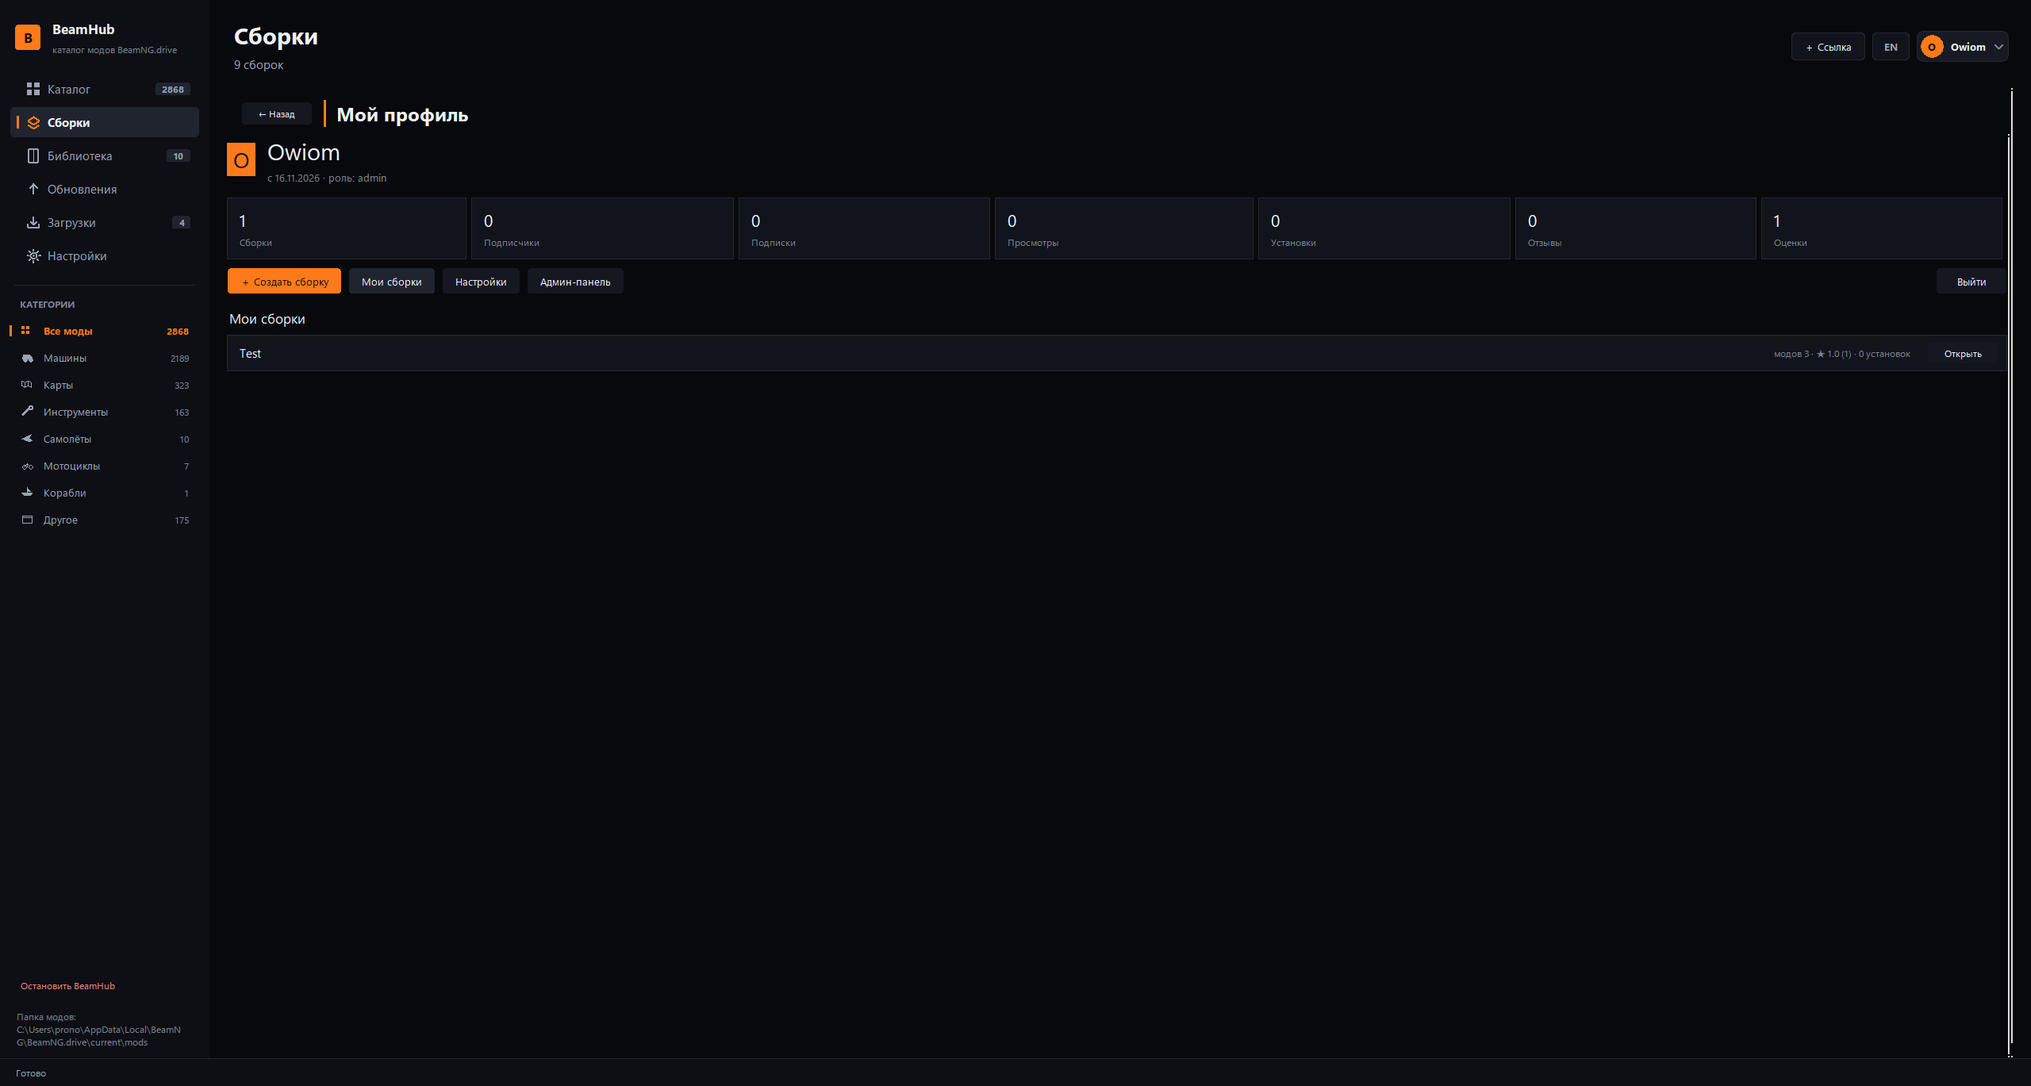
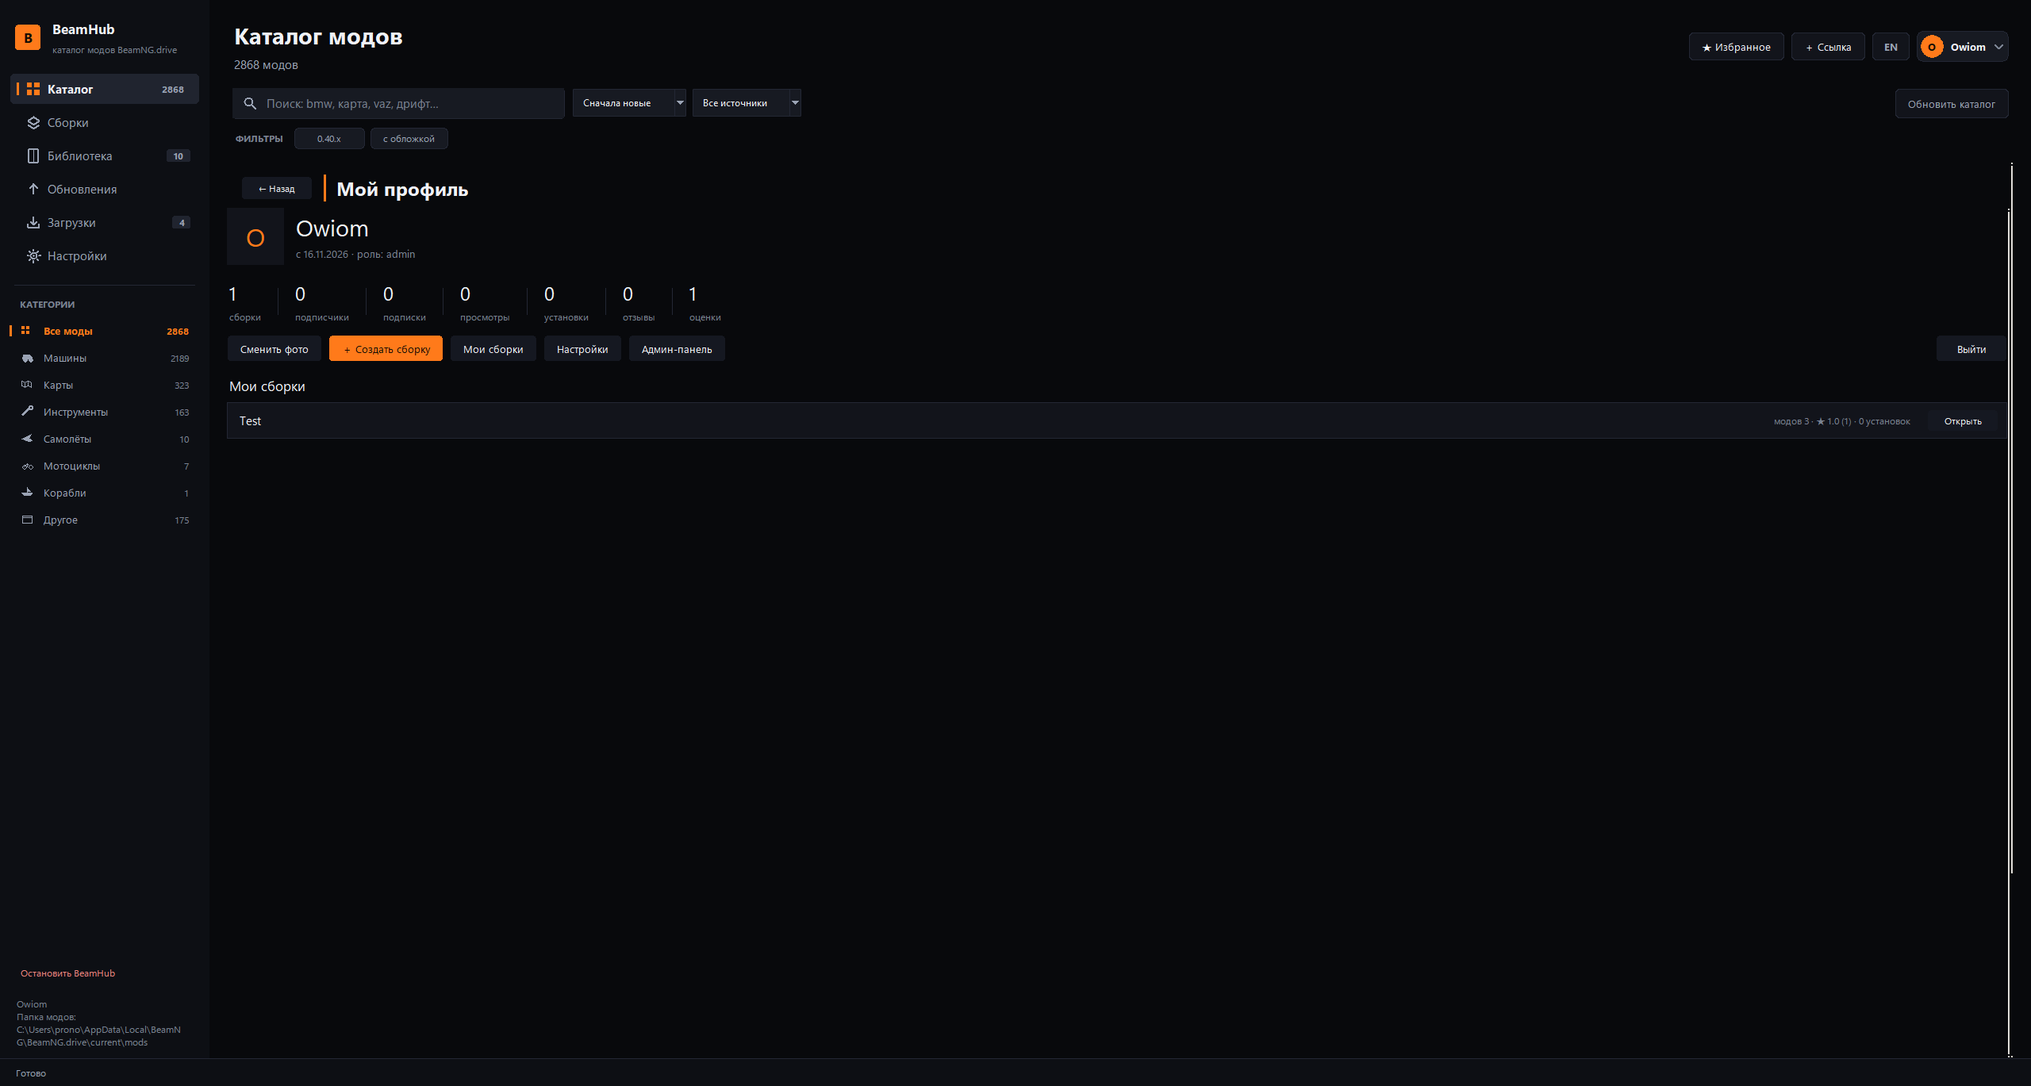
BeamHub 0.12.17: превью и переход из состава сборки, аватар в профиле, страница «Мои сборки», кнопка избранного, без плиток статистики, curl-фолбэк для картинок

diff --git a/core/tkui.py b/core/tkui.py
@@ -268,6 +268,11 @@ class App:
         theme.RoundButton(actions, "＋ Ссылка", self.on_add_link, height=36, font=(FONT, 10),
                           bg=PANEL, fg=TEXT, hover=SURFACE_3, border=LINE,
                           border_hover=BORDER_STRONG).pack(side="right", padx=(0, 8))
+        self.fav_button = theme.RoundButton(actions, "★ Избранное", self.toggle_favorites,
+                                            height=36, font=(FONT, 10), bg=PANEL, fg=TEXT,
+                                            hover=SURFACE_3, border=LINE,
+                                            border_hover=BORDER_STRONG)
+        self.fav_button.pack(side="right", padx=(0, 8))
 
         tools = tk.Frame(self.head, bg=BG)
         tools.pack(fill="x", pady=(16, 0))
@@ -338,7 +343,7 @@ class App:
         self.filter_chips: dict[str, object] = {}
         for text, var, key in (("0.40.x", self.filter_game, "game"),
                                ("с обложкой", self.filter_image, "image"),
-                               ("избранное", self.filter_fav, "fav")):
+                               ):
             chip = theme.RoundButton(filters, text, lambda v=var, k=key: self._toggle_chip(v, k),
                                      height=28, radius=14, bg=SURFACE_2, fg=MUTED,
                                      hover=SURFACE_3, font=(FONT, 9), border=LINE,
@@ -609,6 +614,22 @@ class App:
     # ---------------------------------------------------------------- язык
     def _lang_label(self) -> str:
         return "EN" if i18n.current() == "ru" else "RU"
+
+    def toggle_favorites(self) -> None:
+        """Отдельная кнопка фильтра избранного."""
+        self.filter_fav.set(not self.filter_fav.get())
+        self._paint_fav_button()
+        self.reload()
+
+    def _paint_fav_button(self) -> None:
+        try:
+            active = bool(self.filter_fav.get())
+            self.fav_button.configure(text="★ Избранное: вкл" if active else "★ Избранное")
+            self.fav_button.set_palette(bg=(ACCENT_SOFT if active else PANEL),
+                                        fg=(ACCENT_SOFT_TEXT if active else TEXT),
+                                        hover=(SURFACE_3 if not active else ACCENT_SOFT))
+        except Exception:  # noqa: BLE001
+            pass
 
     def toggle_language(self) -> None:
         self.set_language("en" if i18n.current() == "ru" else "ru")
@@ -1184,7 +1205,8 @@ class App:
         base.paste(image, (0, 0), mask)
         return base
 
-    def _set_placeholder(self, label: tk.Label, item: dict) -> None:
+    def _set_placeholder(self, label: tk.Label, item: dict,
+                         size: tuple[int, int] | None = None) -> None:
         """Заглушка вместо обложки: две буквы названия на плашке категории."""
         if not HAS_PIL:
             label.configure(text=(item.get("title") or "")[:24], fg=MUTED, font=(FONT, 9))
@@ -1266,8 +1288,8 @@ class App:
                 self.root.after(0, lambda: self.set_status(f"Ошибка: {exc}"))
         threading.Thread(target=work, daemon=True).start()
 
-    def details(self, item: dict) -> None:
-        window = self._show_page(item.get("title") or "Мод")
+    def details(self, item: dict, back=None) -> None:
+        window = self._show_page(item.get("title") or "Мод", back=back)
         if item.get("image"):
             holder = tk.Frame(window, bg=PANEL, height=240)
             holder.pack(fill="x", pady=(0, 8))
@@ -1390,24 +1412,25 @@ class App:
             tk.Label(page, text=f"Ошибка: {exc}", bg=BG, fg=MUTED).pack(anchor="w")
             return
         cards = tk.Frame(page, bg=BG)
-        cards.pack(fill="x", pady=(0, 12))
+        cards.pack(fill="x", pady=(6, 12))
         numbers = (
-            ("Пользователи", data.get("users", 0)),
-            ("Активны за 7 дней", data.get("active_users_7d", 0)),
-            ("Сборки", data.get("collections", 0)),
-            ("Установки", data.get("installs", 0)),
-            ("Просмотры", data.get("views", 0)),
-            ("Комментарии", data.get("comments", 0)),
-            ("Оценки", data.get("ratings", 0)),
+            ("пользователи", data.get("collections", 0)),
+            ("активны за 7 дней", data.get("users", 0)),
+            ("сборки", data.get("active_users_7d", 0)),
+            ("просмотры", data.get("views", 0)),
+            ("установки", data.get("installs", 0)),
+            ("отзывы", data.get("comments", 0)),
+            ("оценки", data.get("ratings", 0)),
         )
         for index, (label, value) in enumerate(numbers):
-            cell = tk.Frame(cards, bg=PANEL, highlightthickness=1, highlightbackground=LINE)
-            cell.grid(row=0, column=index, sticky="nsew", padx=(0, 6))
-            tk.Label(cell, text=str(value), bg=PANEL, fg=TEXT, font=(FONT_BOLD, 18),
-                     anchor="w").pack(fill="x", padx=12, pady=(10, 0))
-            tk.Label(cell, text=label, bg=PANEL, fg=DIM, font=(FONT, 9),
-                     anchor="w").pack(fill="x", padx=12, pady=(0, 10))
-            cards.grid_columnconfigure(index, weight=1)
+            if index:
+                tk.Frame(cards, bg=LINE, width=1, height=34).pack(side="left", padx=18)
+            cell = tk.Frame(cards, bg=BG)
+            cell.pack(side="left")
+            tk.Label(cell, text=str(value), bg=BG, fg=TEXT, font=(FONT_BOLD, 18),
+                     anchor="w").pack(anchor="w")
+            tk.Label(cell, text=label, bg=BG, fg=DIM, font=(FONT, 9),
+                     anchor="w").pack(anchor="w")
 
         def section(title: str) -> None:
             tk.Label(page, text=title, bg=BG, fg=TEXT, font=(FONT_BOLD, 13),
@@ -1623,8 +1646,38 @@ class App:
             menu.grab_release()
 
     def _menu_my_collections(self) -> None:
-        self.switch("collections")
-        self.set_coll_kind("mine")
+        page = self._show_page("Мои сборки", back=self.my_profile)
+        try:
+            data = self.api.get("/api/collections", kind="mine", limit=60)
+        except Exception as exc:  # noqa: BLE001
+            tk.Label(page, text=f"Ошибка: {exc}", bg=BG, fg=MUTED).pack(anchor="w")
+            return
+        items = data.get("items", [])
+        top = tk.Frame(page, bg=BG)
+        top.pack(fill="x", pady=(0, 10))
+        theme.RoundButton(top, "＋ Создать сборку", self.create_collection,
+                          variant="primary", height=34, radius=10,
+                          font=(FONT_BOLD, 10)).pack(side="left")
+        tk.Label(top, text=f"{len(items)} сборок", bg=BG, fg=MUTED, font=(FONT, 10)).pack(
+            side="left", padx=12)
+        if not items:
+            tk.Label(page, text="Пока пусто — создайте первую сборку.", bg=BG, fg=DIM,
+                     font=(FONT, 10), anchor="w").pack(fill="x")
+        for coll in items:
+            row = tk.Frame(page, bg=PANEL, highlightthickness=1, highlightbackground=LINE)
+            row.pack(fill="x", pady=3)
+            rating = coll.get("rating") or {}
+            tk.Label(row, text=coll.get("title") or "сборка", bg=PANEL, fg=TEXT,
+                     font=(FONT_BOLD, 12), anchor="w").pack(side="left", fill="x",
+                                                            expand=True, padx=14, pady=10)
+            state = "опубликована" if coll.get("published") else "черновик"
+            tk.Label(row, text=f"{coll.get('items_count', 0)} модов · ★ "
+                               f"{float(rating.get('avg') or 0):.1f} "
+                               f"({rating.get('count', 0)}) · {state}",
+                     bg=PANEL, fg=DIM, font=(FONT, 9)).pack(side="left", padx=8)
+            theme.RoundButton(row, "Открыть",
+                              lambda c=coll["id"]: self.collection_details(c),
+                              height=30, radius=8, font=(FONT, 9)).pack(side="right", padx=12)
 
     def my_profile(self) -> None:
         page = self._show_page("Мой профиль")
@@ -1639,8 +1692,24 @@ class App:
 
         head = tk.Frame(page, bg=BG)
         head.pack(fill="x", pady=(0, 10))
-        tk.Label(head, text=(nick[:1] or "?").upper(), bg=ACCENT, fg="#111318",
-                 font=(FONT_BOLD, 20), width=2).pack(side="left")
+        avatar_holder = tk.Frame(head, bg=PANEL, width=72, height=72)
+        avatar_holder.pack(side="left")
+        avatar_holder.pack_propagate(False)
+        avatar_label = tk.Label(avatar_holder, bg=PANEL, fg=ACCENT, font=(FONT_BOLD, 24),
+                                text=(nick[:1] or "?").upper())
+        avatar_label.pack(fill="both", expand=True)
+        if user.get("avatar_url"):
+            try:
+                from PIL import Image, ImageTk
+
+                file = Path(config.DATA_DIR) / str(user["avatar_url"])
+                with Image.open(file) as image:
+                    image = image.convert("RGB").resize((72, 72), Image.LANCZOS)
+                    photo = ImageTk.PhotoImage(image)
+                avatar_label.configure(image=photo, text="")
+                avatar_label.image = photo
+            except Exception:  # noqa: BLE001
+                pass
         names = tk.Frame(head, bg=BG)
         names.pack(side="left", padx=12)
         tk.Label(names, text=nick, bg=BG, fg=TEXT, font=(FONT_BOLD, 22),
@@ -1653,27 +1722,55 @@ class App:
         tk.Label(names, text=meta, bg=BG, fg=DIM, font=(FONT, 10), anchor="w").pack(fill="x")
 
         cards = tk.Frame(page, bg=BG)
-        cards.pack(fill="x", pady=(4, 10))
+        cards.pack(fill="x", pady=(6, 12))
         numbers = (
-            ("Сборки", stats.get("collections", 0)),
-            ("Подписчики", user.get("followers", 0)),
-            ("Подписки", user.get("following", 0)),
-            ("Просмотры", stats.get("views", 0)),
-            ("Установки", stats.get("installs", 0)),
-            ("Отзывы", stats.get("comments", 0)),
-            ("Оценки", stats.get("ratings", 0)),
+            ("сборки", stats.get("collections", 0)),
+            ("подписчики", user.get("followers", 0)),
+            ("подписки", user.get("following", 0)),
+            ("просмотры", stats.get("views", 0)),
+            ("установки", stats.get("installs", 0)),
+            ("отзывы", stats.get("comments", 0)),
+            ("оценки", stats.get("ratings", 0)),
         )
         for index, (label, value) in enumerate(numbers):
-            cell = tk.Frame(cards, bg=PANEL, highlightthickness=1, highlightbackground=LINE)
-            cell.grid(row=0, column=index, sticky="nsew", padx=(0, 6))
-            tk.Label(cell, text=str(value), bg=PANEL, fg=TEXT, font=(FONT_BOLD, 16),
-                     anchor="w").pack(fill="x", padx=12, pady=(10, 0))
-            tk.Label(cell, text=label, bg=PANEL, fg=DIM, font=(FONT, 9),
-                     anchor="w").pack(fill="x", padx=12, pady=(0, 10))
-            cards.grid_columnconfigure(index, weight=1)
+            if index:
+                tk.Frame(cards, bg=LINE, width=1, height=34).pack(side="left", padx=18)
+            cell = tk.Frame(cards, bg=BG)
+            cell.pack(side="left")
+            tk.Label(cell, text=str(value), bg=BG, fg=TEXT, font=(FONT_BOLD, 18),
+                     anchor="w").pack(anchor="w")
+            tk.Label(cell, text=label, bg=BG, fg=DIM, font=(FONT, 9),
+                     anchor="w").pack(anchor="w")
 
         actions = tk.Frame(page, bg=BG)
         actions.pack(fill="x", pady=(0, 12))
+        def change_avatar() -> None:
+            picked = filedialog.askopenfilename(
+                title="Фото профиля",
+                filetypes=[("Изображения", "*.png *.jpg *.jpeg *.webp")])
+            if not picked:
+                return
+            try:
+                folder = Path(config.DATA_DIR) / "avatars"
+                folder.mkdir(parents=True, exist_ok=True)
+                name = f"{self.user['id']}.png"
+                from PIL import Image
+
+                with Image.open(picked) as image:
+                    image.convert("RGB").resize((128, 128), Image.LANCZOS).save(
+                        folder / name, "PNG")
+            except Exception as exc:  # noqa: BLE001
+                self.toast(f"Не удалось: {exc}", "error")
+                return
+            result = self.api.post("/api/profile", {"avatar_url": f"avatars/{name}"})
+            if not result.get("ok"):
+                self.toast(result.get("error", "Не получилось"), "error")
+                return
+            self.toast("Фото обновлено", "ok")
+            self.my_profile()
+
+        theme.RoundButton(actions, "Сменить фото", change_avatar, height=34, radius=10,
+                          font=(FONT, 10)).pack(side="left", padx=(0, 8))
         theme.RoundButton(actions, "＋ Создать сборку", self.create_collection,
                           variant="primary", height=34, radius=10,
                           font=(FONT_BOLD, 10)).pack(side="left")
@@ -2156,7 +2253,16 @@ class App:
                                                                        pady=(4, 4))
         inner = tk.Frame(window, bg=BG)
         inner.pack(fill="both", expand=True, padx=0)
-        for index, item in enumerate(coll.get("items", []), start=1):
+        items = coll.get("items", [])
+        catalog: dict = {}
+        if items:
+            try:
+                ids = ",".join(item["mod_id"] for item in items[:120])
+                data = self.api.get("/api/mods/by-ids", ids=ids)
+                catalog = {row["id"]: row for row in data.get("items", [])}
+            except Exception:  # noqa: BLE001
+                catalog = {}
+        for index, item in enumerate(items, start=1):
             line = tk.Frame(inner, bg=PANEL, highlightthickness=1, highlightbackground=LINE)
             line.pack(fill="x", pady=3)
             mark = "✓" if item["mod_id"] in installed else str(index)
@@ -2167,6 +2273,19 @@ class App:
             info.pack(side="left", fill="x", expand=True, pady=6)
             tk.Label(info, text=item.get("title") or item["mod_id"], bg=PANEL, fg=TEXT,
                      font=(FONT, 10), anchor="w").pack(fill="x")
+            mod_item = catalog.get(item["mod_id"])
+            if mod_item is not None:
+                box = tk.Frame(line, bg="#0a0b0e", width=96, height=54)
+                box.pack(side="left", padx=(8, 6), pady=6, before=info)
+                box.pack_propagate(False)
+                thumb = tk.Label(box, bg="#0a0b0e", bd=0, text="")
+                thumb.pack(fill="both", expand=True)
+                self._set_placeholder(thumb, mod_item, (96, 54))
+                if mod_item.get("image"):
+                    self._request_image(mod_item["image"], thumb, mod_item)
+                self._bind_click_tree(
+                    line, lambda m=mod_item, c=coll_id: self.details(
+                        m, back=lambda: self.collection_details(c)))
             tk.Label(info, text=f"{item.get('category') or ''} · {item.get('size_text') or ''}",
                      bg=PANEL, fg=DIM, font=(FONT, 9), anchor="w").pack(fill="x")
             if coll.get("is_owner"):

diff --git a/core/http.py b/core/http.py
@@ -103,6 +103,38 @@ def fetch(url: str, referer: str | None = None, timeout: int = 30, retries: int 
     raise RuntimeError(f"Не удалось загрузить {url}: {last_error}")
 
 
+
+def _fetch_with_curl(url: str, referer: str | None, timeout: int) -> bytes:
+    """Запасной путь: системный curl — он тянет медленные сайты стабильнее."""
+    import os
+    import shutil
+    import subprocess
+    import tempfile
+
+    curl = shutil.which("curl.exe") or shutil.which("curl")
+    if not curl:
+        raise RuntimeError("curl недоступен")
+    handle, temp_path = tempfile.mkstemp(suffix=".bin")
+    os.close(handle)
+    try:
+        command = [curl, "-sSL", "--max-time", str(timeout), "-A", UA, "-o", temp_path]
+        if referer:
+            command += ["-H", f"Referer: {referer}"]
+        command.append(url)
+        subprocess.run(command, check=True, timeout=timeout + 5,
+                       stdout=subprocess.DEVNULL, stderr=subprocess.DEVNULL,
+                       creationflags=getattr(subprocess, "CREATE_NO_WINDOW", 0))
+        data = Path(temp_path).read_bytes()
+        if not data:
+            raise RuntimeError("curl вернул пустой ответ")
+        return data
+    finally:
+        try:
+            os.unlink(temp_path)
+        except OSError:
+            pass
+
+
 def fetch_bytes(url: str, referer: str | None = None, timeout: int = 40,
                 safe: bool = False) -> bytes:
     """Забрать двоичные данные. safe=True — только публичные адреса и без SSRF-редиректов."""
@@ -121,11 +153,15 @@ def fetch_bytes(url: str, referer: str | None = None, timeout: int = 40,
         headers["Referer"] = referer
     request = urllib.request.Request(url, headers=headers)
     opener = urllib.request.build_opener(_SafeRedirect()) if safe else urllib.request.build_opener()
-    with opener.open(request, timeout=timeout) as resp:
-        raw = resp.read()
-        if (resp.headers.get("Content-Encoding") or "").lower() == "gzip":
-            raw = gzip.decompress(raw)
-        return raw
+    try:
+        with opener.open(request, timeout=min(timeout, 20)) as resp:
+            raw = resp.read()
+            if (resp.headers.get("Content-Encoding") or "").lower() == "gzip":
+                raw = gzip.decompress(raw)
+            return raw
+    except Exception as exc:  # noqa: BLE001
+        print(f"[beamhub] urllib не смог, пробую curl: {exc}")
+        return _fetch_with_curl(url, referer, timeout)
 
 
 class _SafeRedirect(urllib.request.HTTPRedirectHandler):

diff --git a/app.py b/app.py
@@ -370,6 +370,20 @@ class Handler(BaseHTTPRequestHandler):
             if path == "/api/state":
                 self._json(state_payload())
                 return
+            if path == "/api/mods/by-ids":
+                ids = [part for part in (query.get("ids") or [""])[0].split(",")
+                       if part.strip()][:120]
+                if not ids:
+                    self._json({"ok": True, "items": []})
+                    return True
+                marks = ",".join("?" for _ in ids)
+                rows = db.query(
+                    f"SELECT id, title, image, category, version, game_version, size_text, "
+                    f"downloads, url, source, author FROM mods WHERE id IN ({marks})", ids)
+                by_id = {row["id"]: row for row in rows}
+                items = [by_id[mod_id] for mod_id in ids if mod_id in by_id]
+                self._json({"ok": True, "items": items})
+                return True
             if path == "/api/mods":
                 q = (query.get("q") or [""])[0].strip()
                 category = (query.get("cat") or ["all"])[0]

diff --git a/core/version.py b/core/version.py
@@ -1,6 +1,6 @@
 """Единственный источник версии приложения."""
 
-VERSION = "0.12.15"
+VERSION = "0.12.17"
 APP_NAME = "BeamHub"
 
 
